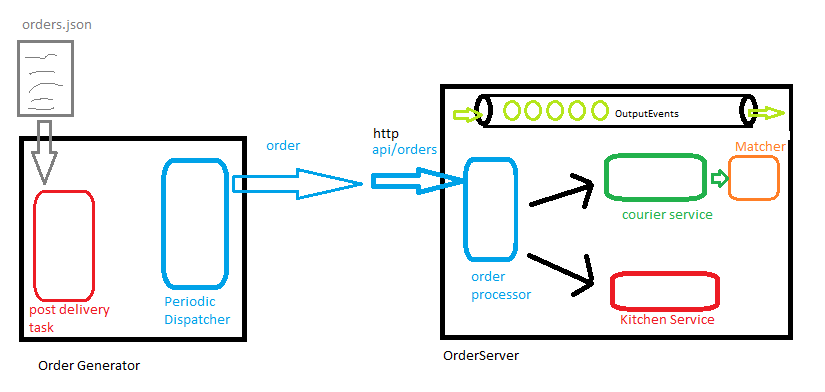
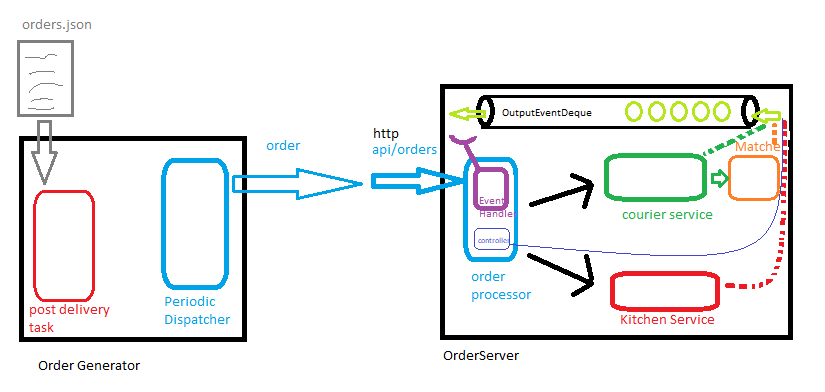
completed readme.md

diff --git a/ordergenerator/src/main/java/com/acabra/orderfullfilment/orderproducer/dispatch/PeriodicOrderDispatcherClientImpl.java b/ordergenerator/src/main/java/com/acabra/orderfullfilment/orderproducer/dispatch/PeriodicOrderDispatcherClientImpl.java
@@ -3,6 +3,7 @@ package com.acabra.orderfullfilment.orderproducer.dispatch;
 import com.acabra.orderfullfilment.orderproducer.dto.DeliveryOrderRequestDTO;
 import com.acabra.orderfullfilment.orderproducer.dto.OrderDispatcherStatusPOJO;
 import lombok.extern.slf4j.Slf4j;
+import org.springframework.beans.factory.annotation.Value;
 import org.springframework.stereotype.Service;
 import org.springframework.web.client.RestTemplate;
 
@@ -19,7 +20,8 @@ import java.util.concurrent.atomic.LongAdder;
 public class PeriodicOrderDispatcherClientImpl implements PeriodicOrderDispatcherClient {
 
     static final String ORDERS_RESOURCE = "http://localhost:9000/orderserver/api/orders";
-    public static final long PERIOD = 500L;
+
+    public  final long period;
     private final LongAdder successCount = new LongAdder();
     private final LongAdder failureCount = new LongAdder();
     private final RestTemplate restTemplate;
@@ -27,7 +29,8 @@ public class PeriodicOrderDispatcherClientImpl implements PeriodicOrderDispatche
     private final ScheduledExecutorService scheduledExecutorService = Executors.newSingleThreadScheduledExecutor();
     private final CompletableFuture<OrderDispatcherStatusPOJO> completionFuture = new CompletableFuture<>();
 
-    public PeriodicOrderDispatcherClientImpl(RestTemplate restTemplate) {
+    public PeriodicOrderDispatcherClientImpl(@Value("${ordergenerator.order-publish-period-millis}")long period, RestTemplate restTemplate) {
+        this.period = period;
         this.restTemplate = restTemplate;
     }
 
@@ -47,7 +50,7 @@ public class PeriodicOrderDispatcherClientImpl implements PeriodicOrderDispatche
                     CompletableFuture<Void> fut = task.getTaskCompletedFuture();
                     task.run();
                     fut.get();
-                    Thread.sleep(PERIOD);
+                    Thread.sleep(period);
                 }
             } catch (Exception e) {
                 log.error("Thread interrupted: " + e.getMessage());

diff --git a/ordergenerator/src/test/java/com/acabra/orderfullfilment/orderproducer/dispatch/PeriodicOrderDispatcherClientImplTest.java b/ordergenerator/src/test/java/com/acabra/orderfullfilment/orderproducer/dispatch/PeriodicOrderDispatcherClientImplTest.java
@@ -28,6 +28,7 @@ import java.util.concurrent.ExecutionException;
 @ContextConfiguration(classes = {RestClientConfig.class})
 class PeriodicOrderDispatcherClientImplTest {
 
+    public static final long PERIOD_POST_ORDER_MILLIS = 500L;
     protected PeriodicOrderDispatcherClientImpl underTest;
 
     @Autowired
@@ -38,7 +39,7 @@ class PeriodicOrderDispatcherClientImplTest {
     @BeforeEach
     void setUp() {
         mockServer = MockRestServiceServer.createServer(restTemplate);
-        underTest = new PeriodicOrderDispatcherClientImpl(restTemplate);
+        underTest = new PeriodicOrderDispatcherClientImpl(PERIOD_POST_ORDER_MILLIS, restTemplate);
     }
 
     @Test

diff --git a/README.md b/README.md
@@ -14,12 +14,19 @@ The system has two components a server and an order generator:
 
     ```./mvnw clean package > build-result.orig && less -12 build-result.orig```
     
-    **Note:** The output is directed to a file to improve execution
+    **Note:** The output is directed to a file to improve execution time.
 
-2. Start the server
+   #### Server Optional Arguments
+
+   |Name|Description|Values|Default|
+       |---|---|---|---|
+   |strategy|the source of the orders to load in the system| *fifo* or *matched*|fifo|
+   |--|--|--|--|
+
+3. Start the server
     ```java -jar orderserver/target/orderserver-1.0.jar  <SERVER_OPTIONAL_ARGS>```
 
-3. Start the order generator system (see the args table)
+4. Start the order generator system (see the args table)
     ```java -jar orderserver/target/orderserver-1.0.jar <GENERATOR_OPTIONAL_ARGS>```
     
     #### Generator Optional Arguments
@@ -40,7 +47,6 @@ The system has two components a server and an order generator:
 ### [Windows (CMD)]:
 Replace the command ```./mvnw``` for ```mvnw.cmd```.
 
-
 # Considerations
 
 ### Couriers
@@ -51,7 +57,7 @@ Replace the command ```./mvnw``` for ```mvnw.cmd```.
     Every courier is dispatched to pick up any order available in the kitchen, on first come, first served basis.
 
     ###### Matched
-    Every courier is dispatched to pick up a specific order
+    Every courier is dispatched to pick a specific order.
 
 - After a courier delivers an order it transits back to "available".
 
@@ -60,8 +66,59 @@ Replace the command ```./mvnw``` for ```mvnw.cmd```.
 - The orders are received on a queue and can be discarded if no courier is available for pickup.
 
 ## Architecture
-The system works based on events published in a notification queue, and a central order systems
-that receives the events and calls the relevant component.
+The system works based on events published in a non-blocking notification queue, and a central order system that receives the events and calls the relevant components accordingly on each event.
 
+![General Diagram](./docs/GeneralDiagram.png)
 
+### 1. OrderGenerator
+1. Reads the orders from a defined json file containing an array of orders.
+    ```[{"id":"id_of_order", "":"", "prepTime": 4}...]```
+2. The orders are sent through http to the OrderServer by the PeriodicDispatcher running periodically every 500L Milliseconds, creating a task that contains a single order.
+3. This operates in Fire and Forget mode, any response errors beyond Http.BAD_REQUEST(400) will make the server to stop.
 
+### 2. OrderServer
+#### 2.1. OrderProcessor [OrderProcessor.java](orderserver/src/main/java/com/acabra/orderfullfilment/orderserver/core/OrderProcessor.java)
+1. The main class OrderProcessor creates a ConcurrentLinkedDeque and registers it to the respective dependencies (KitchenService, CourierService).
+2. The OrderController is the REST endpoint handling the DeliveryOrders and transforming them to OutputEvent(OrderReceivedEvent) and placing them in the notification deque.
+3. The server starts OrderRequestHandler(see configuration) threads consuming tasks from the deque, and passing them back to the OrderProcessor. The mechanism implemented is polling with no blocking.
+4. The OutputEventHandlers finish execution when they read an Event with type SHUT_DOWN_REQUEST, that signals them to complete execution. 
+5. The OrderProcessors also starts a thread  **startNoMoreOrdersMonitor** monitoring the queue and when detecting no more orders are present signals the shutdown of the OutputEventHandlers the monitoring uses the concept of RetryBudget that control the amount of retries (see configuration)
+
+#### 2.2 KitchenService [KitchenService.java](orderserver/src/main/java/com/acabra/orderfullfilment/orderserver/kitchen/KitchenService.java)
+This service is responsible for meal preparation, it allows orders to be prepared with a previously requested reservationId, this allows the caller to ensure a courier is available to deliver the order
+
+#### 2.3 CourierDispatchService [CourierDispatchService.java](orderserver/src/main/java/com/acabra/orderfullfilment/orderserver/courier/CourierDispatchService.java)
+1. Dispatch couriers (see configuration) and publishes the CourierDispatchedEvent to the notification deque.
+2. Relies on an implementation of the CourierFleet interface to handle the available drivers.
+3. Relies on an implementation of the [OrderCourierMatcher.java](orderserver/src/main/java/com/acabra/orderfullfilment/orderserver/courier/matcher/OrderCourierMatcher.java).java interface to match orders to couriers
+
+#### 2.4 NotificationDeque
+1. The notification deque holds events implementing the abstract class [OutputEvent](orderserver/src/main/java/com/acabra/orderfullfilment/orderserver/event/OutputEvent.java)
+
+##### Output Events
+|Event|Type|Published By|
+|---|---|---|
+|OrderReceivedEvent|ORDER_RECEIVED|OrderRequestHandler class after transforming the incoming objects through Http Post.|
+|CourierDispatchedEvent|COURIER_DISPATCHED|the CourierFleet indicating that a Courier has been dispatched.|
+|OrderPreparedEvent|ORDER_PREPARED|the KitchenService indicates a meal is ready for pickup.|
+|CourierArrivedEvent|COURIER_ARRIVED|the CourierService indicates that the courier arrived to pick up an order.|
+|OrderPickedUpEvent|ORDER_PICKED_UP|OrderCourierMatcher indicating an order was picked up (after the assignment was completed).|
+|OrderDeliveredEvent|ORDER_DELIVERED|Indicates the order was delivered (emulated as orders are delivered instantaneously as soons as they are picked up).|
+|OutputEvent|NO_PENDING_ORDERS|OrderMonitoring task indicating the queue has been without orders for as many retries as configured (see configuration).|
+
+## Configuration
+For a detail of the configuration of the server system take a look at [application.properties](orderserver/src/main/resources/application.properties)
+
+|name|description|values
+|---|---|---|
+|orderserver.strategy=fifo|determines the strategy to be used when dispatching couriers|fifo, matched|
+|orderserver.thread-count|the total amount of threads to concurrently poll events from the notification queue|must be greater than 0 and its bound by the available processors|
+|orderserver.period-shut-down-monitor-millis|time in seconds for checking if there are pending orders on the queue|time in millis|
+|orderserver.polling-max-retries|The total amount of retries available before attempting to shut down the consumer threads|recommended 6|
+|orderserver.polling-time-millis|The sleep time of concurrent threads after polling the notification queue|recommended 8000|
+|courier.min-eta|courier travel time min boundary for the uniformly distribution of random times taken|3|
+|courier.max-eta|courier travel time max boundary for the uniformly distribution of random times taken|15|
+
+It is possible to run the server with a different configuration by launching the application with the parameter **--spring.config.location**
+e.g.
+```java -jar orderserver/target/orderserver-1.0.jar --spring.config.location=/fullpath/to/file/application.properties```
